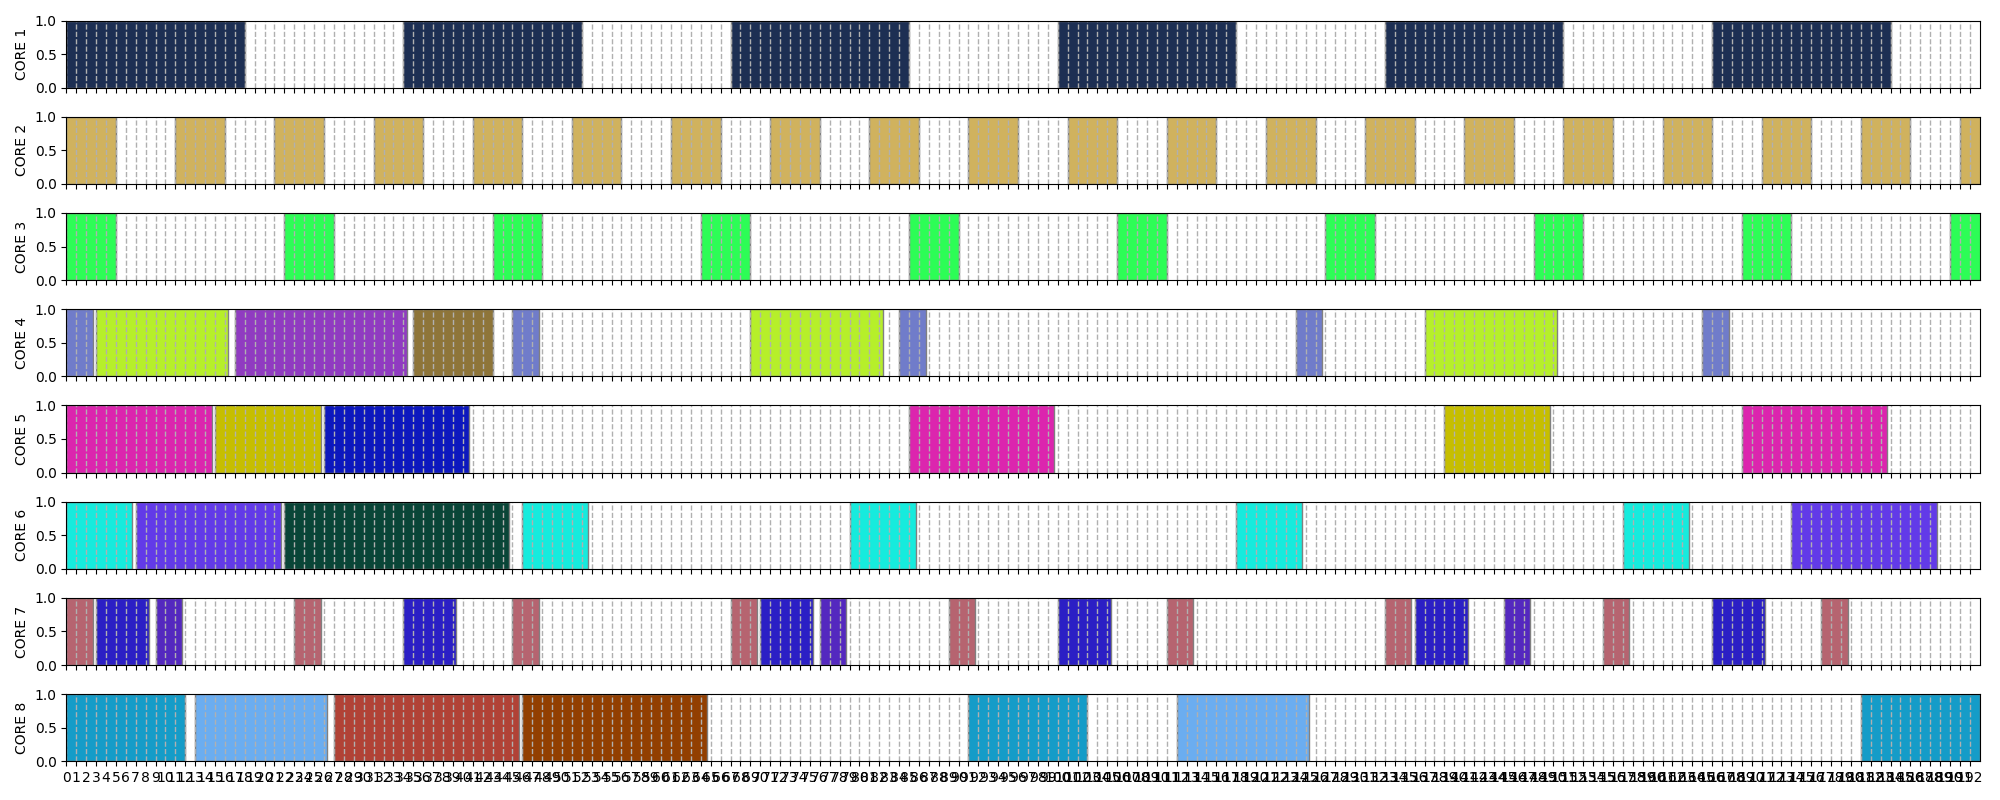
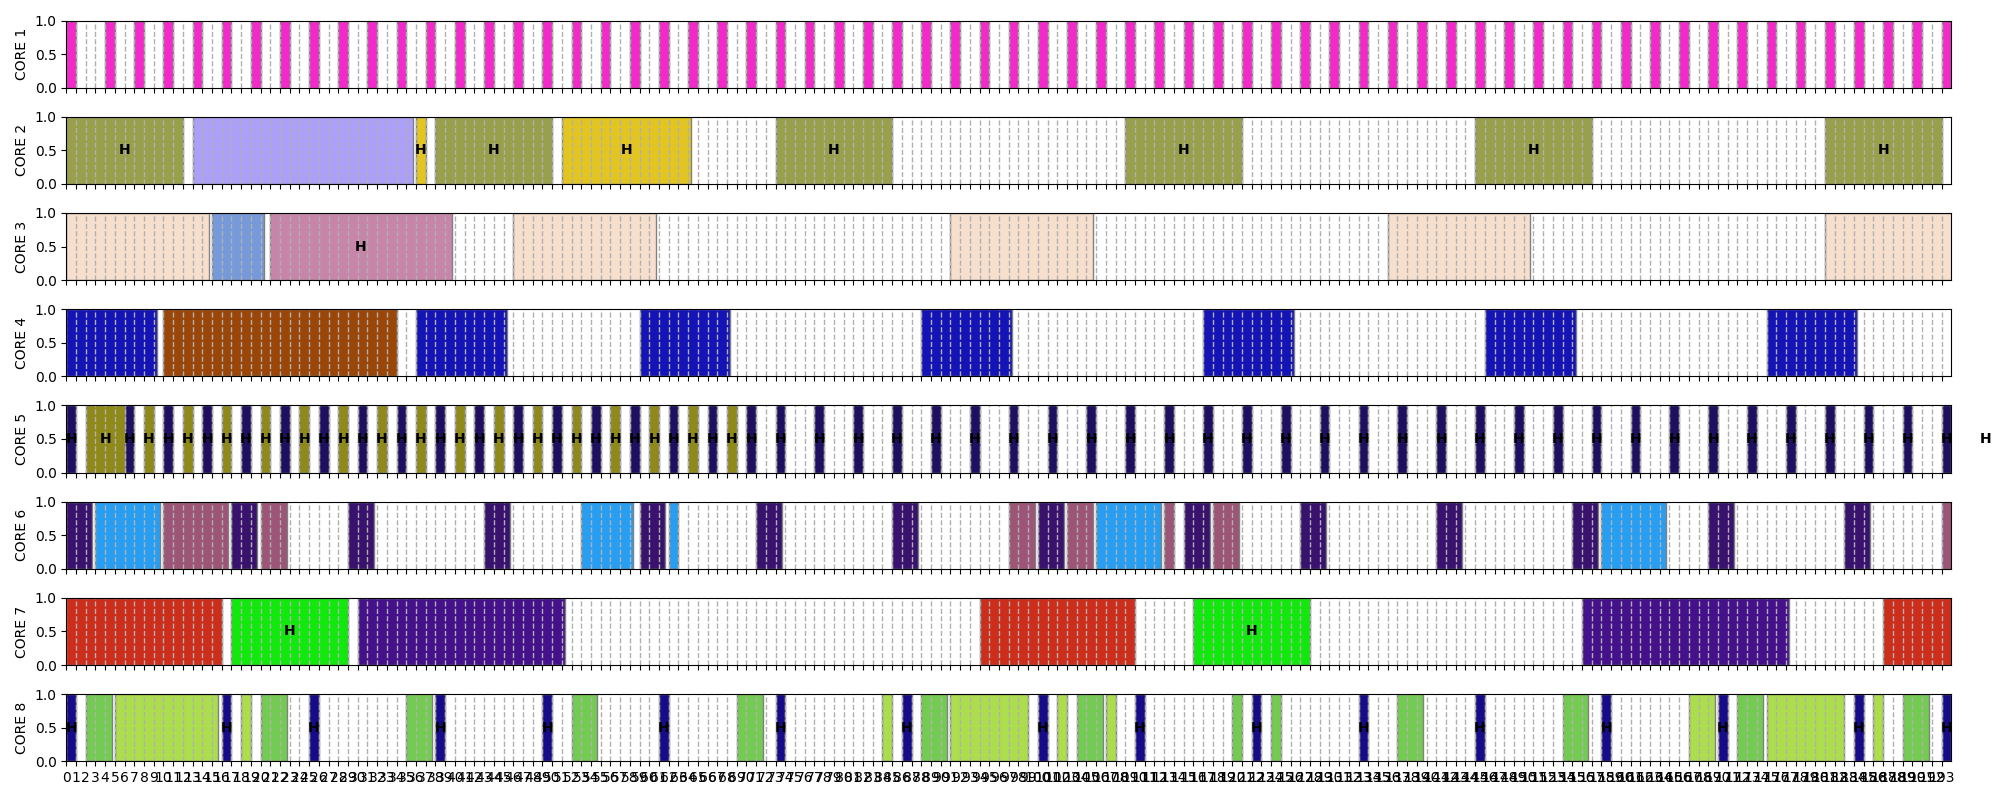
Add txt for hard deadlines

diff --git a/diagram_displayer.py b/diagram_displayer.py
@@ -1,6 +1,8 @@
 import random
 import matplotlib.pyplot as plt
 
+from task import Criticality
+
 
 class DiagramDisplayer(object):
 
@@ -31,6 +33,11 @@ class DiagramDisplayer(object):
                     align='edge', edgecolor='grey', fill=True,
                     color=colors[i["task_id"]]
                 )
+                if i["criticality"] == Criticality.HARD:
+                    text_position = (i["start_time"] + i["end_time"]) / 2
+                    ax.text(text_position, 0.5, "H", ha='center', va='center', color='black', fontsize=10,
+                            fontweight='bold')
+
             ax.set_ylabel(f'CORE {core.id}')
             ax.set_xlim(0, end_time)
             ax.set_ylim(0, 1)

diff --git a/scheduler.py b/scheduler.py
@@ -68,6 +68,7 @@ class Scheduler(object):
         log = {
             "instance_number": instance.number,
             "task_id": instance.task.id,
+            "criticality": instance.task.criticality,
             "start_time": start,
         }
         has_slack, new_exec_time, added_time = self._has_slack(p, start, end)
